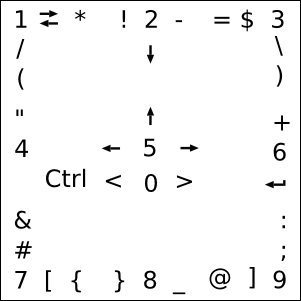
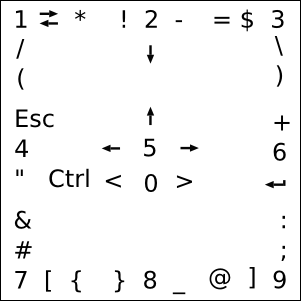
Add Escape
git-svn-id: https://svn.projects.openmoko.org/svnroot/qwo/trunk@54 cd2dc1c7-0efa-465c-980b-3050bee5fbc5

Changed region(s): [[0.1495, 0.5382, 0.299, 0.6279], [0.0299, 0.3588, 0.1794, 0.4485], [0.0299, 0.5681, 0.0897, 0.598]]

diff --git a/src/qwo.c b/src/qwo.c
@@ -101,7 +101,7 @@ KeySym char_free[MAX_REGIONS][MAX_REGIONS] = {
 	{0xffff, 0xffff, 0xffff, XK_colon, XK_semicolon, XK_KP_9, XK_bracketright, XK_at, 0xffff},
 	{0xffff, 0xffff, 0xffff, 0xffff, 0xffff, XK_underscore, XK_KP_8, XK_braceright, 0xffff},
 	{0xffff, XK_ampersand, 0xffff, 0xffff, 0xffff, XK_braceleft, XK_bracketleft, XK_KP_7, XK_numbersign},
-	{0xffff, XK_quotedbl, 0xffff, 0xffff, 0xffff, 0xffff, XK_Control_L, XK_Down, XK_KP_4}};
+	{0xffff, XK_Escape, 0xffff, 0xffff, 0xffff, 0xffff, XK_Control_L, XK_quotedbl, XK_KP_4}};
 
 static KeyCode Shift_code, Control_code;
 
